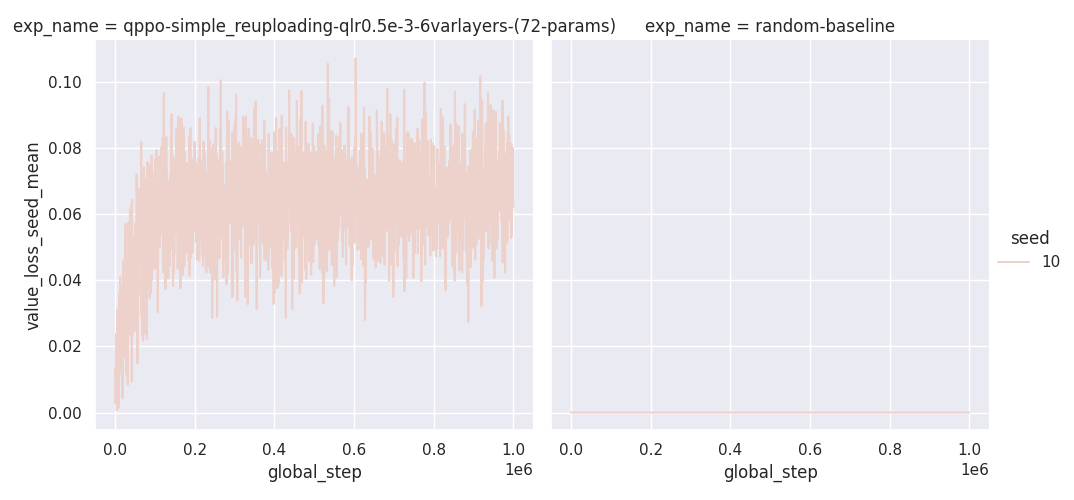
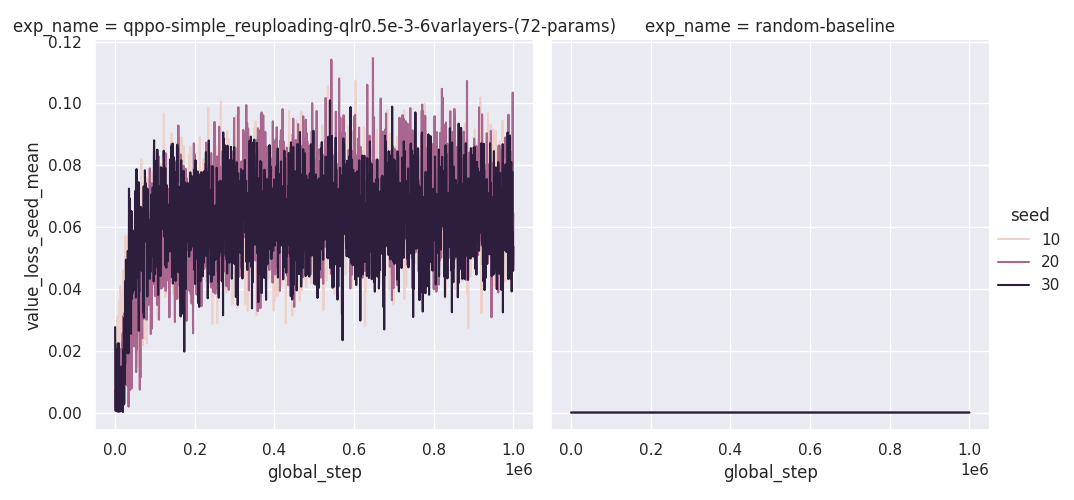
plot tests

diff --git a/src/plot.py b/src/plot.py
@@ -616,16 +616,17 @@ def plot_test_avg3(results_dir, plot_dir, gym_id, exp_names, seeds, stepsize, ma
     
     #up_res_avg = avg_update_results(up_res, gym_id, exp_names, stepsize, max_steps)
 
+    #.rolling(30).mean()
 
     # check if plot_dir exists
     pathExists = os.path.exists(plot_dir)
     if not pathExists:
         os.makedirs(plot_dir)
 
-    sns.lineplot(x="global_step", y="value_loss_mean",
-             hue="exp_name", errorbar='sd',
-             data=up_res)
-    """
+    #sns.lineplot(x="global_step", y="value_loss_mean",
+    #         hue="exp_name", errorbar='sd',
+    #         data=up_res)
+    
     # plotting
     sns.relplot(
         data=up_res,
@@ -637,7 +638,7 @@ def plot_test_avg3(results_dir, plot_dir, gym_id, exp_names, seeds, stepsize, ma
         errorbar="sd",
         err_style = "band",
         # style="exp_name",
-    )"""
+    )
     plot_dir2 = os.path.join(plot_dir, "value_loss_by_exp_name.png")
     plt.savefig(plot_dir2)
     plt.close()

diff --git a/test_log.py b/test_log.py
@@ -282,7 +282,7 @@ exp_names = [
     "qppo-simple_reuploading-qlr0.5e-3-6varlayers-(72-params)",
     "random-baseline",
 ]
-seeds = [10]
+seeds = [10, 20, 30]
 stepsize = 4 * 128
 max_steps = 200000
 
